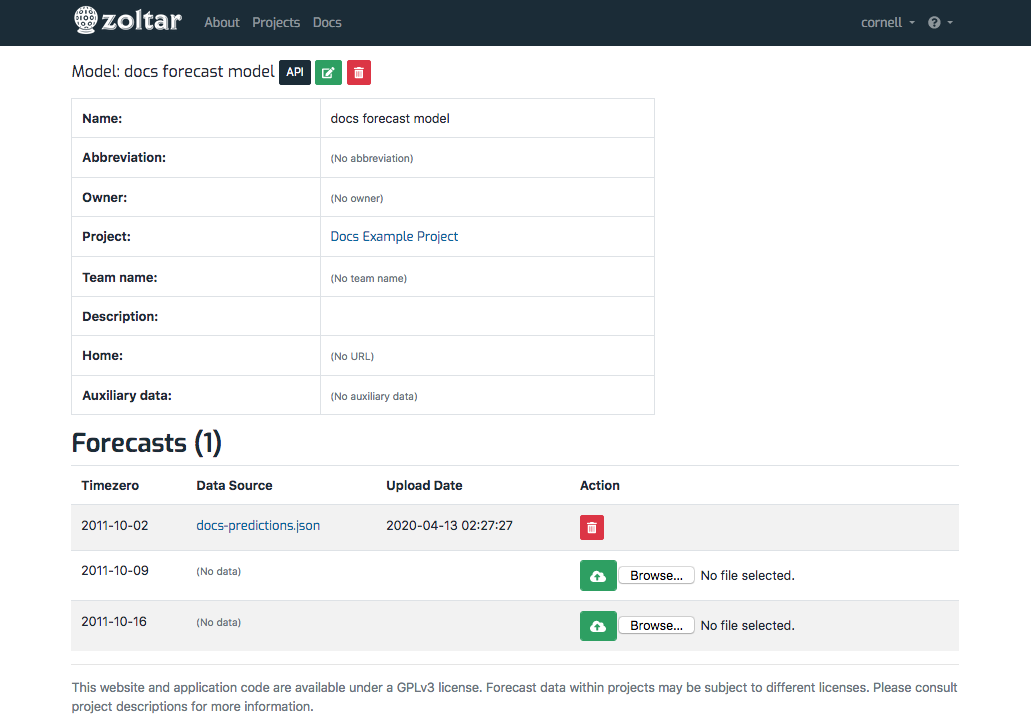
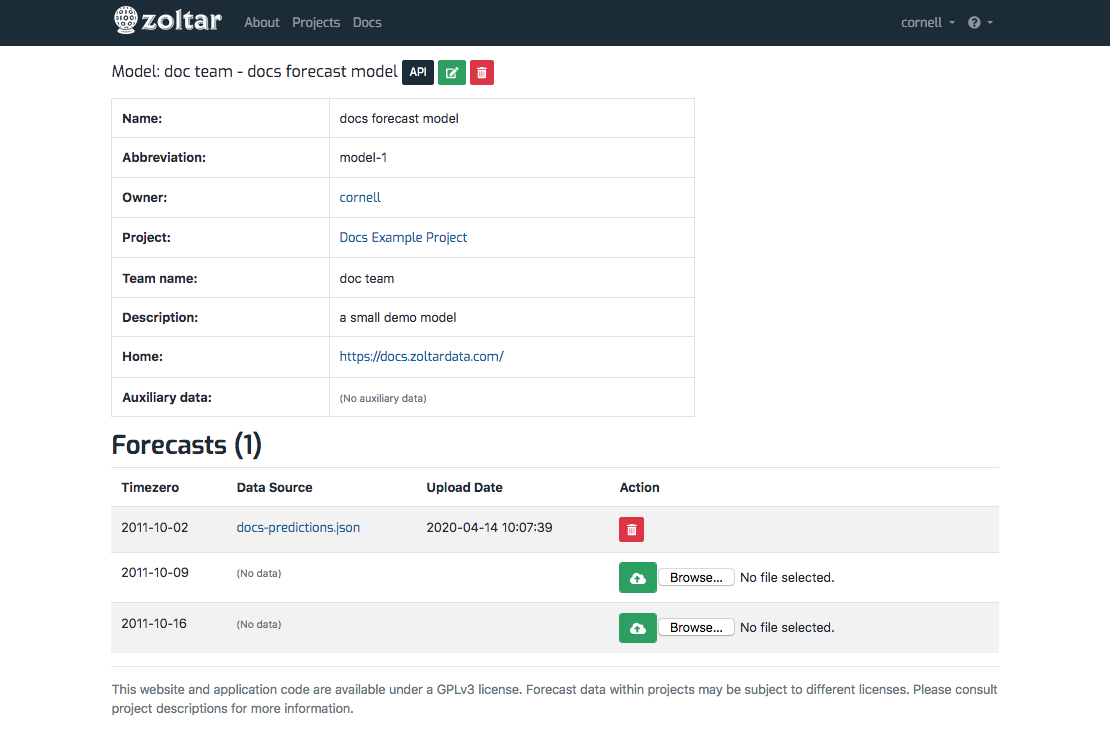
WIP updating docs to zoltar3

diff --git a/docs/ModelDetailPage.md b/docs/ModelDetailPage.md
@@ -1,8 +1,6 @@
 # Model detail page
 
-A _model_ is the representation of code that generates forecasts. Clicking on a model link takes you to its detail page.
-The detail page is divided into two vertical sections, described next: Details table and forecasts list. Here's an
-example model detail page:
+A **model** is the representation of code that generates forecasts. Clicking on a model link takes you to its detail page. The detail page is divided into two vertical sections with **bold** headings, described next: **Details table** and **Forecasts**. Here's an example model detail page:
 
 ![Model detail page](img/model-detail-page.png "Model detail page")
 
@@ -13,22 +11,14 @@ At the top of the page is a table showing information related to the model:
 
 - *Name*: The model's name.
 - *Abbreviation*: A short name for the model. It's used as the column name in downloaded scores.
-- *Owner*: The model's owner. The owner is the user that created the model (which is done on the home page), and she can
-  edit or delete the model, and upload or delete its forecasts.
+- *Owner*: The model's owner. The owner is the user that created the model (which is done on the home page), and she can edit or delete the model, and upload or delete its forecasts.
 - *Project*: A link to the project the model belongs to.
 - *Team name*: The name of the team that developed the model. This is not used directly by Zoltar.
 - *Description*: Prose provided by model owner. It should include information on reproducing the model's results.
 - *Home*: A link to the model home page.
-- *Auxiliary data*: An optional link to model-specific data files that were used by the model beyond the project's core
-  data. Not used directly by Zoltar.
+- *Auxiliary data*: An optional link to model-specific data files that were used by the model beyond the project's core data. Not used directly by Zoltar.
 
 
 ## Forecasts
 
-The **Forecasts** section lists the model's forecasts, with links to forecast detail pages (see [forecast detail
-page](ForecastDetailPage.md) for more information). Each forecast is data associated with a particular time zero in the
-project. The data is loaded from a file with a specific format (see [file formats](FileFormats.md) for details). There
-is one line per time zero, specifying the time zero date (but not the data version date), the original forecast data
-_source_ that was uploaded (usually a file name), and an **Action** button, either a green upload one if there is no 
-data associated with the time zero or a red delete button otherwise. Clicking on the filename link takes you to a
-[forecast detail page](ForecastDetailPage.md) that includes a data preview plus a **Download** button.
+The **Forecasts** section lists the model's forecasts, with links to each one's [forecast detail page](ForecastDetailPage.md) that includes a data preview plus a **Download** button. Each forecast is data associated with a particular time zero in the project. The data is loaded from a file with a [specific format](FileFormats.md#forecast-data-format-json). There is one line per time zero, specifying the time zero date (but not the data version date), the original forecast _data source_ that was uploaded (arbitrary text, but is usually a file name), and an **Action** button, either a green upload one if there is no data associated with the time zero or a red delete button otherwise.

diff --git a/docs/ForecastDetailPage.md b/docs/ForecastDetailPage.md
@@ -1,7 +1,6 @@
 # Forecast detail page
 
-The forecast detail pages shows information about a particular forecast, and is divided into two vertical sections,
-described next: __Details table__ and __Prediction information__. Here's an example forecast detail page: 
+The forecast detail pages shows information about a particular forecast, and is divided into two vertical sections with **bold** headings, described next: __Details table__ and __Prediction information__. Here's an example forecast detail page: 
 
 ![Forecast detail page](img/forecast-detail-page.png "Forecast detail page")
 
@@ -17,5 +16,4 @@ At the top of the page is a table showing information related to the forecast:
 
 ## Predictions
 
-The **Predictions** section summarizes the counts of the seven different prediction types that can be associated with
-a forecast. See [Data Model](DataModel.md) for more information on how forecast data is modeled.
+The predictions section has a heading like **"Forecast has __ predictions"** (where __ is the actual number) and a summary of the counts of the five different prediction types that can be associated with a forecast: `bin`, `named`, `point`, `quantile`, and `sample`. See [Data Model](DataModel.md) for more information on how forecast data is modeled.

diff --git a/docs/Concepts.md b/docs/Concepts.md
@@ -2,7 +2,15 @@
 
 todo
 
+## Prediction types
+(or maybe just in DataModel.md ?)
 
-timezeros: About time zeros and `data version dates`: Because the forecasting field does not have standard terminology, we have settled on the following two concepts for this application. Note that some time zeros are tagged as starting a season, specifying the season's name, which helps to segment the time zeros. Zoltar uses season information in the visualization and score pages, where the user can select which season to show data for. This also helps to keep performance up.
+## Forecast models
+A **model** is the representation of code that generates forecasts.
+
+## Time zeros
+A **time zero** is ...
+
+: About time zeros and `data version dates`: Because the forecasting field does not have standard terminology, we have settled on the following two concepts for this application. Note that some time zeros are tagged as starting a season, specifying the season's name, which helps to segment the time zeros. Zoltar uses season information in the visualization and score pages, where the user can select which season to show data for. This also helps to keep performance up.
 
 ...

diff --git a/docs/ProjectDetailPage.md b/docs/ProjectDetailPage.md
@@ -2,7 +2,7 @@
 
 A *project* is the main element for representing a forecasting challenge. It has an *owner* (a registered user in the system), and zero or more *model owners* (also users in the system). A project owner can do anything to the project, but model owners are limited to creating, editing, and deleting forecast models, and uploading and deleting forecasts. (To become a model owner you must contact the project owner.)
 
-Each project's detail page is divided into five vertical sections with **bold** headings, described next: Details table, forecast models, units, targets, and time zeros. Currently the top looks like this:
+Each project's detail page is divided into five vertical sections with **bold** headings, described next: **Details table**, **Models**, **Units**, **Targets**, and **Time zeros**. Currently the top looks like this:
 
 ![Project detail page](img/project-detail-page.png "Project detail page")
 
